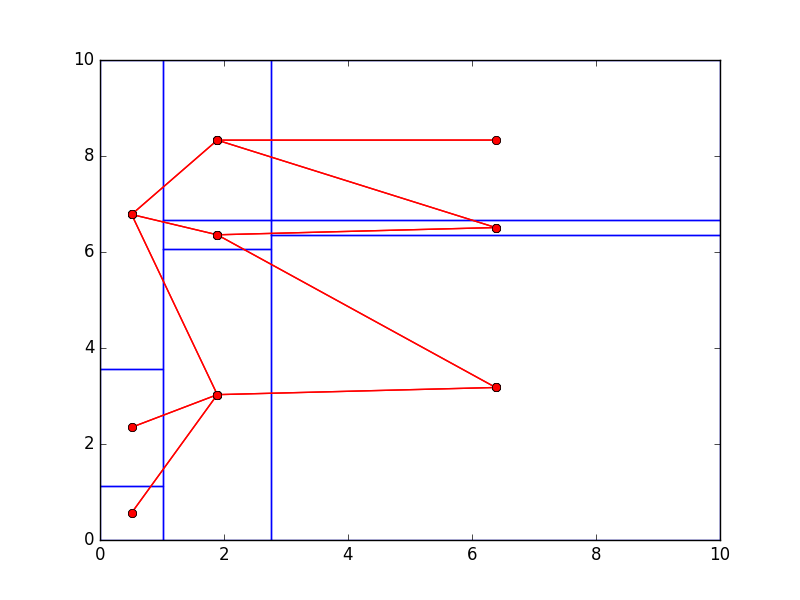
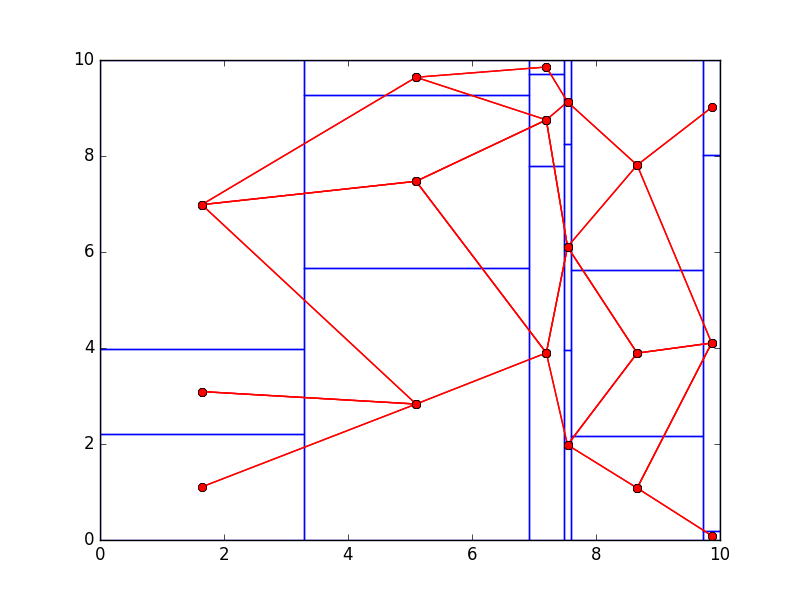
Works for different number of cuts in x and y now.

diff --git a/LoadBalanceByDimension/code/build_adjacency_matrix.py b/LoadBalanceByDimension/code/build_adjacency_matrix.py
@@ -22,7 +22,7 @@ def find_cut(subset_boundaries, cut):
 def find_ymin(subset_boundaries, cut, column):
   for i in range(0,len(subset_boundaries)):
     #The column this subset is in.
-    current_column = int(i/(N_x+1))
+    current_column = int(i/(N_y+1))
     if (current_column == column):
       if (subset_boundaries[i][2] == cut):
         return i
@@ -30,13 +30,13 @@ def find_ymin(subset_boundaries, cut, column):
 def find_ymax(subset_boundaries,cut,column):
   for i in range(0,len(subset_boundaries)):
     #The column this subset is in.
-    current_column = int(i/(N_x+1))
+    current_column = int(i/(N_y+1))
     if (current_column == column):
       if (subset_boundaries[i][3] == cut):
         return i
 
 #Number of cuts in x-direction
-N_x = 2
+N_x = 5
 #Number of cuts in y-direction
 N_y = 2
 
@@ -58,6 +58,7 @@ global_y_max = 10.0
 x_cuts = []
 #2D array that wills store the y_cuts for each y_column.
 y_cuts = []
+
 #y_cuts = [[2.0,6.0],[1.0,8.0], [0.5,5.0]]
 
 #Populating x_cuts with uniformly distributed random values.
@@ -76,6 +77,7 @@ for i in range(0,N_x):
 
   y_cuts.append(y_cuts_column)
 
+x_cuts.sort()
 #Last column
 y_cuts_column = []
 for i in range(0,N_y):
@@ -85,7 +87,6 @@ for i in range(0,N_y):
 y_cuts_column.sort()
 y_cuts.append(y_cuts_column)
 
-x_cuts.sort()
 
 print(x_cuts)
 print(y_cuts)
@@ -98,7 +99,7 @@ for i in range(0,num_subsets):
   #Subset ID
   ss_id = i
 
-  current_column = int(ss_id/(N_x+1))
+  current_column = int(ss_id/(N_y+1))
   current_row = 0
   if (current_column == 0):
     current_row = ss_id
@@ -109,6 +110,7 @@ for i in range(0,num_subsets):
   x_max = 0
   y_min = 0
   y_max = 0
+
 
   #Getting x_min, x_max, y_min, y_max of current subset
   if (current_column == 0):
@@ -166,13 +168,12 @@ global_neighbor_map = []
 for i in range(0,num_subsets):
   #Local neighbor map for this subset
   local_neighbor_map = []
-  current_column = int(i/(N_x+1))
+  current_column = int(i/(N_y+1))
   current_row = 0
   if (current_column == 0):
-    current_row = ss_id
+    current_row = i
   else:
-    current_row = int(ss_id - current_column*(N_y+1))
-  
+    current_row = int(i - current_column*(N_y+1))
   
   x_min = global_subset_boundary[i][0]
   x_max = global_subset_boundary[i][1]
@@ -211,7 +212,9 @@ for i in range(0,num_subsets):
       else:
         #Check if we're looking at the first cut line in this column
         if (j == 0):
+          print(second_column_y_cuts[j],current_column+1)
           subsets = find_ymax(global_subset_boundary,second_column_y_cuts[j],current_column+1)
+          print(subsets,i)
           local_neighbor_map.append(subsets)
         elif (second_column_y_cuts[j-1] < y_max):
           subsets = find_ymax(global_subset_boundary,cut,current_column+1)
@@ -219,7 +222,7 @@ for i in range(0,num_subsets):
   
   #We're only concerned with neighbors to the left
   elif (current_column == N_x):
-    left_neighbor_cuts = y_cuts[N_y-1]
+    left_neighbor_cuts = y_cuts[N_x-1]
     for j in range(0, N_y):
       cut = left_neighbor_cuts[j]
       if (cut < y_max):
@@ -310,7 +313,7 @@ for i in range(0,num_subsets):
           subsets = find_ymax(global_subset_boundary,right_cut,current_column+1)
           local_neighbor_map.append(subsets)
   
-  local_neighbor_map = sorted(set(local_neighbor_map))
+  #local_neighbor_map = sorted(set(local_neighbor_map))
   global_neighbor_map.append(local_neighbor_map)
 
 
@@ -347,8 +350,6 @@ for i in range (0, num_subsets):
     
     x = [subset_centers[i][0], subset_centers[n][0]]
     y = [subset_centers[i][1], subset_centers[n][1]]
-    print(x)
-    print(y)
     plt.plot(x,y,'r-o')
 
 plt.savefig("adjacency_plot.png")
